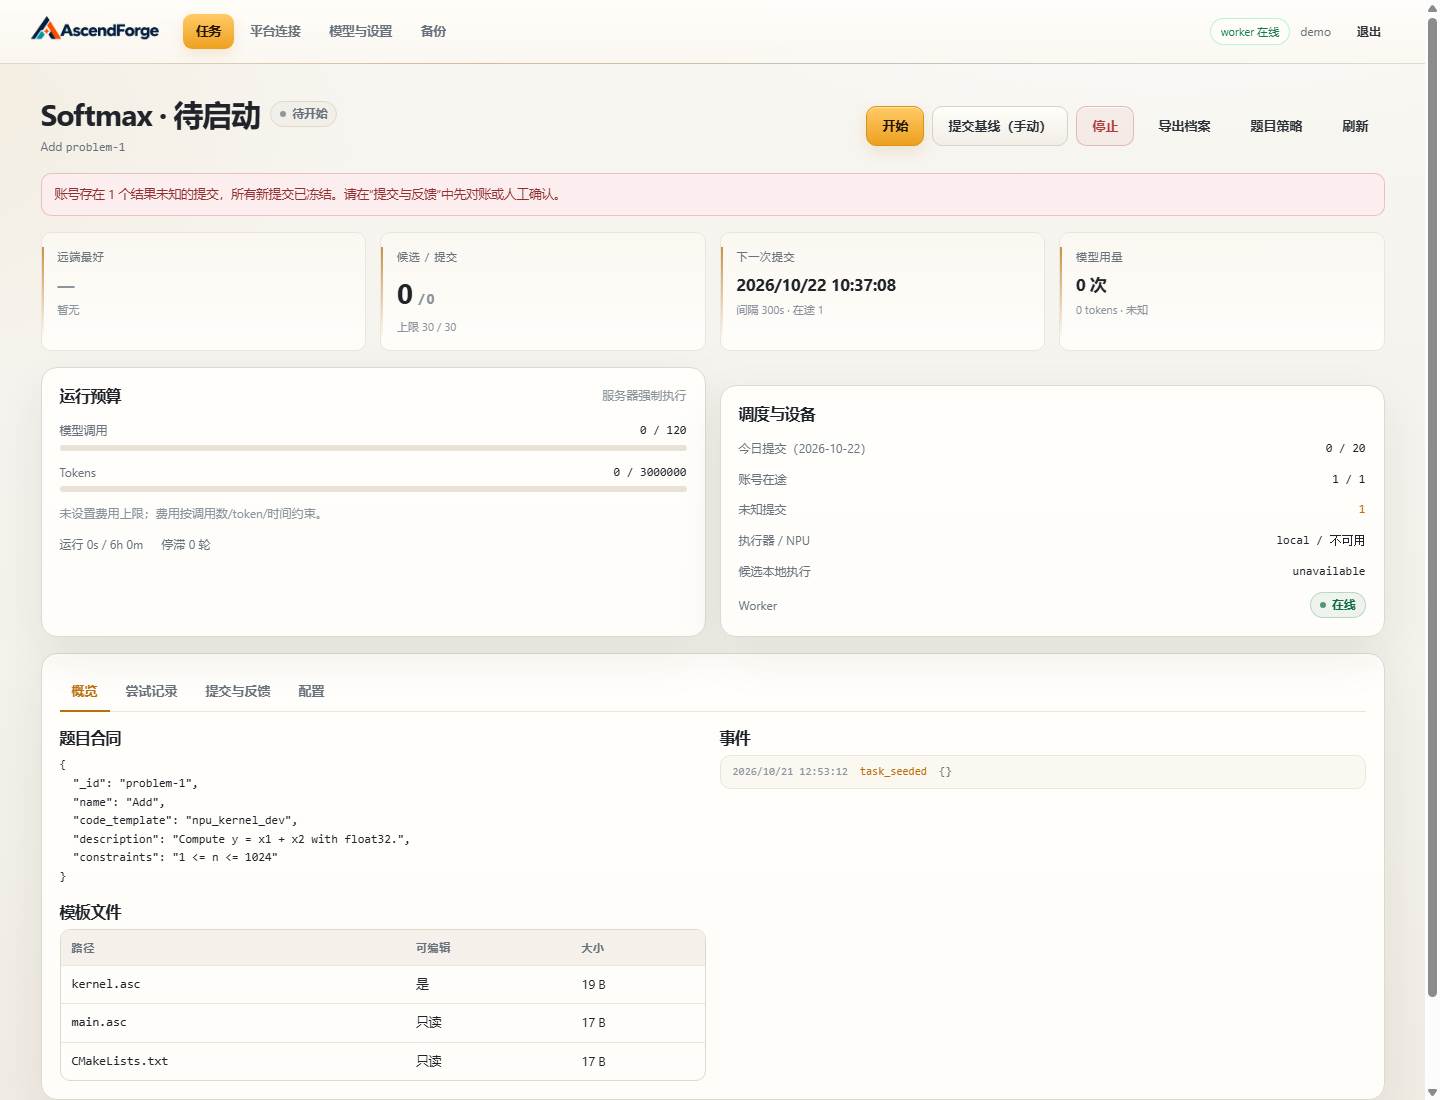
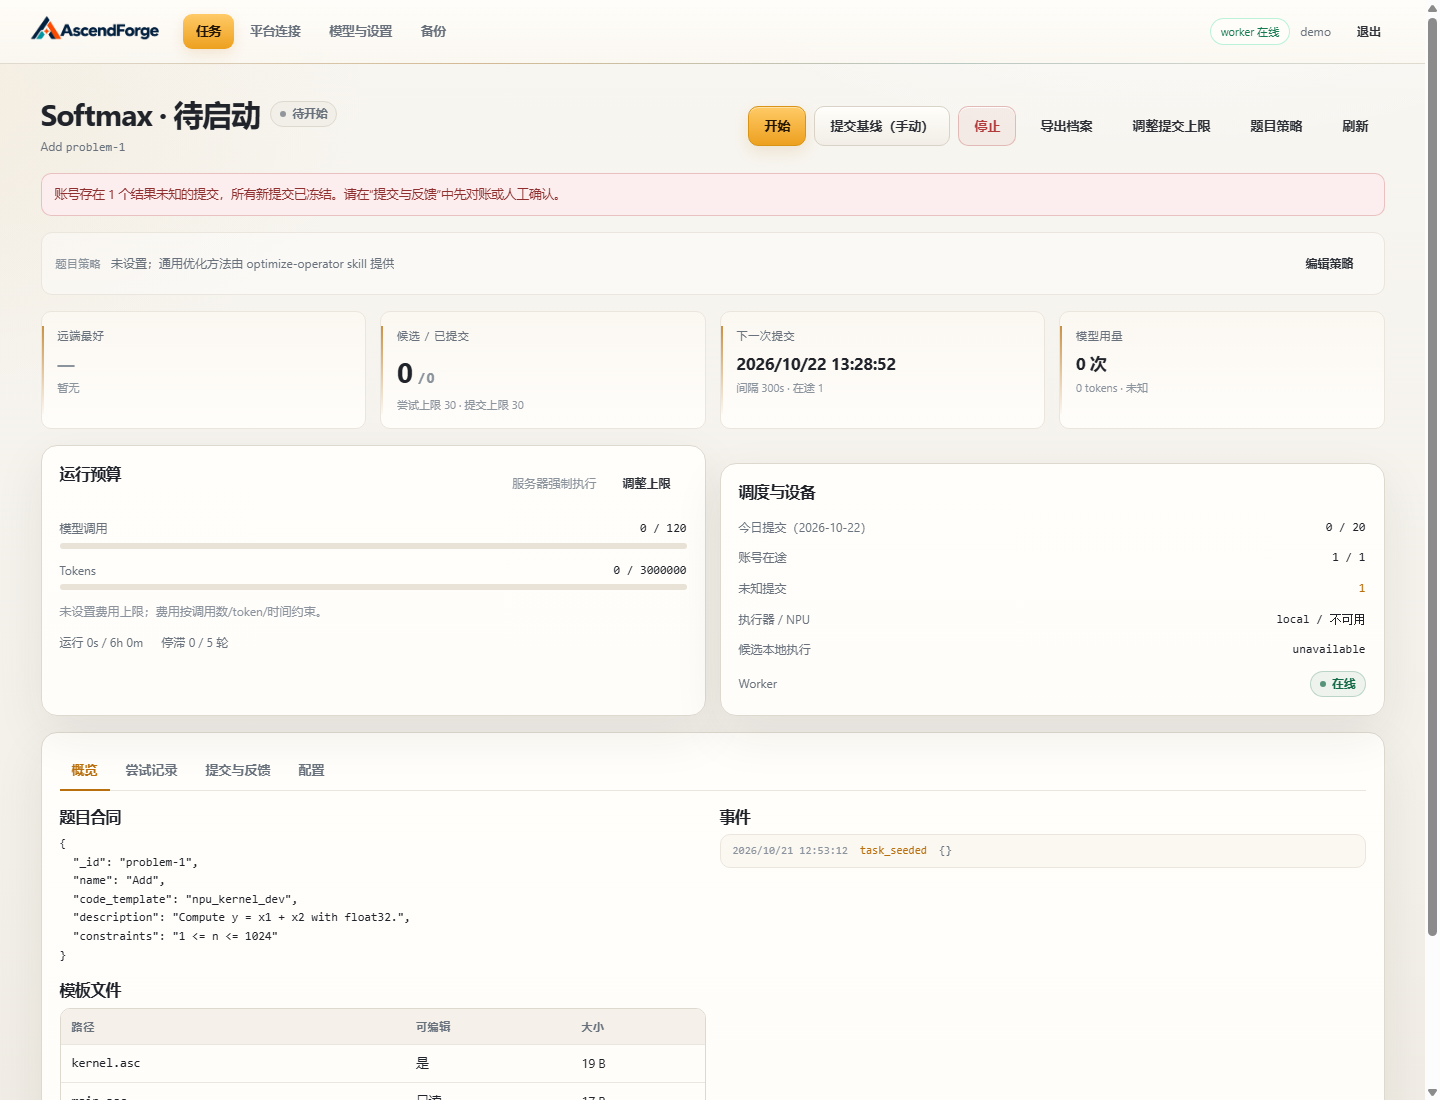
Expose submission frequency controls and show saved task strategy

diff --git a/ascendforge/webui/app.js b/ascendforge/webui/app.js
@@ -647,6 +647,14 @@ async function renderTask(taskId) {
 
     ${renderTaskAlert(task, quota)}
 
+    <div class="strategy-strip">
+      <div class="strategy-strip-main">
+        <span class="strategy-strip-label">题目策略</span>
+        <span class="strategy-strip-text">${config.strategy_prompt ? esc(String(config.strategy_prompt).slice(0, 240)) : '未设置；通用优化方法由 optimize-operator skill 提供'}</span>
+      </div>
+      <button class="btn btn-sm btn-ghost" data-strategy="1" type="button">编辑策略</button>
+    </div>
+
     <div class="grid grid-4" style="margin-bottom:16px">
       <div class="metric"><div class="metric-label">远端最好</div><div class="metric-value small">${renderBestValue(best)}</div><div class="metric-note">${esc(task.best_attempt_id ? '仅通过且可比的远端结果' : '暂无')}</div></div>
       <div class="metric"><div class="metric-label">候选 / 已提交</div><div class="metric-value">${esc(task.counts?.candidates ?? 0)} <span class="faint" style="font-size:14px">/ ${esc(quota.sends_total ?? 0)}</span></div><div class="metric-note">尝试上限 ${esc(config.max_attempts ?? '—')} · 提交上限 ${esc(limitLabel(config.max_submissions_per_task))}</div></div>
@@ -695,8 +703,7 @@ async function renderTask(taskId) {
   if (baselineButton) baselineButton.addEventListener('click', () => baselineSubmit(task.id));
   const continueButton = $('[data-continue-opt]');
   if (continueButton) continueButton.addEventListener('click', () => continueOptimization(task.id));
-  const strategyButton = $('[data-strategy]');
-  if (strategyButton) strategyButton.addEventListener('click', () => openStrategyModal(task));
+  $$('[data-strategy]').forEach((button) => button.addEventListener('click', () => openStrategyModal(task)));
   $$('[data-budget]').forEach((button) => button.addEventListener('click', () => openBudgetModal(task)));
   $('#task-refresh').addEventListener('click', () => renderTask(task.id).catch((e) => toast(e.message, 'error')));
   $$('[data-task-tab]').forEach((button) => {
@@ -724,6 +731,9 @@ async function openBudgetModal(task) {
         <div class="field"><label for="budget-day-subs">每日提交上限</label><div class="row"><input id="budget-day-subs" type="number" min="0" max="200" value="${esc(config.max_submissions_per_day ?? 20)}"><label class="checkbox"><input id="budget-day-unlimited" type="checkbox" ${Number(config.max_submissions_per_day) === 0 ? 'checked' : ''}>不限</label></div></div>
         <div class="field"><label for="budget-attempts">最多尝试轮数</label><input id="budget-attempts" type="number" min="1" max="500" value="${esc(config.max_attempts ?? 30)}"></div>
         <div class="field"><label for="budget-stall">停滞轮数停止</label><input id="budget-stall" type="number" min="1" max="100" value="${esc(config.max_stall_rounds ?? 5)}"></div>
+        <div class="field"><label for="budget-interval">最小提交间隔（秒，≥60）</label><input id="budget-interval" type="number" min="60" max="86400" value="${esc(config.min_submit_interval_sec ?? 300)}"></div>
+        <div class="field"><label for="budget-inflight">同账号在途上限</label><input id="budget-inflight" type="number" min="1" max="3" value="${esc(config.max_inflight ?? 1)}"></div>
+        <div class="field"><label for="budget-poll">结果轮询间隔（秒）</label><input id="budget-poll" type="number" min="3" max="600" value="${esc(config.poll_interval_sec ?? 10)}"></div>
       </div>
       <div class="hint">“不限”等于 0，调度器会按无限上限处理；模型调用、Token 和运行时长仍由原预算控制。</div>
       <div class="alert error" id="budget-error" hidden></div>
@@ -746,6 +756,9 @@ async function openBudgetModal(task) {
           max_submissions_per_day: $('#budget-day-unlimited').checked ? 0 : Number($('#budget-day-subs').value),
           max_attempts: Number($('#budget-attempts').value),
           max_stall_rounds: Number($('#budget-stall').value),
+          min_submit_interval_sec: Number($('#budget-interval').value),
+          max_inflight: Number($('#budget-inflight').value),
+          poll_interval_sec: Number($('#budget-poll').value),
         },
         requestId: uuid(),
       });
@@ -767,7 +780,7 @@ async function openStrategyModal(task) {
       <div class="alert info">通用优化方法由 <span class="mono">optimize-operator</span> skill 提供。这里只写本题的目标、约束和待验证假设，例如“先覆盖全部 dtype，再优化 UB 分块”。</div>
       <div class="field"><label for="strategy-text">策略文本</label>
         <textarea id="strategy-text" rows="10" maxlength="8000" placeholder="本题进入性能优化阶段，重点研究……">${esc(current)}</textarea>
-        <div class="hint">保存后，下一次模型调用会把它注入任务上下文；不会影响已提交的快照。</div>
+        <div class="hint">保存后只影响下一次新建的 attempt；当前已生成的候选和已提交快照不会回溯改变。任务停止时也可以先改策略，再点“继续优化”。</div>
       </div>
       <div class="alert error" id="strategy-error" hidden></div>
       <div class="form-actions">

diff --git a/ascendforge/webui/style.css b/ascendforge/webui/style.css
@@ -749,6 +749,25 @@ tr.clickable:hover td { background: rgba(185, 111, 12, 0.045); }
 .toast.success { border-color: rgba(22,122,81,.35); }
 
 .task-board, .task-card, .metric, .card { color: var(--text); }
+.strategy-strip {
+  display: flex;
+  align-items: center;
+  justify-content: space-between;
+  gap: 14px;
+  padding: 11px 14px;
+  margin-bottom: 16px;
+  border: 1px solid var(--border-soft);
+  border-radius: 11px;
+  background: rgba(255, 255, 255, 0.42);
+}
+.strategy-strip-main { display: flex; align-items: baseline; gap: 10px; min-width: 0; }
+.strategy-strip-label { color: var(--faint); font-size: 10.5px; letter-spacing: .08em; text-transform: uppercase; white-space: nowrap; }
+.strategy-strip-text { color: var(--muted); font-size: 12px; overflow: hidden; text-overflow: ellipsis; white-space: nowrap; }
+@media (max-width: 700px) {
+  .strategy-strip { align-items: flex-start; }
+  .strategy-strip-main { flex-direction: column; gap: 4px; }
+  .strategy-strip-text { white-space: normal; }
+}
 .budget-track {
   height: 6px;
   margin-top: 5px;

diff --git a/ascendforge/web.py b/ascendforge/web.py
@@ -889,6 +889,9 @@ class Handler(BaseHTTPRequestHandler):
             "max_runtime_sec",
             "max_model_calls",
             "max_tokens",
+            "min_submit_interval_sec",
+            "max_inflight",
+            "poll_interval_sec",
         }
         patch = {}
         for key in allowed:
